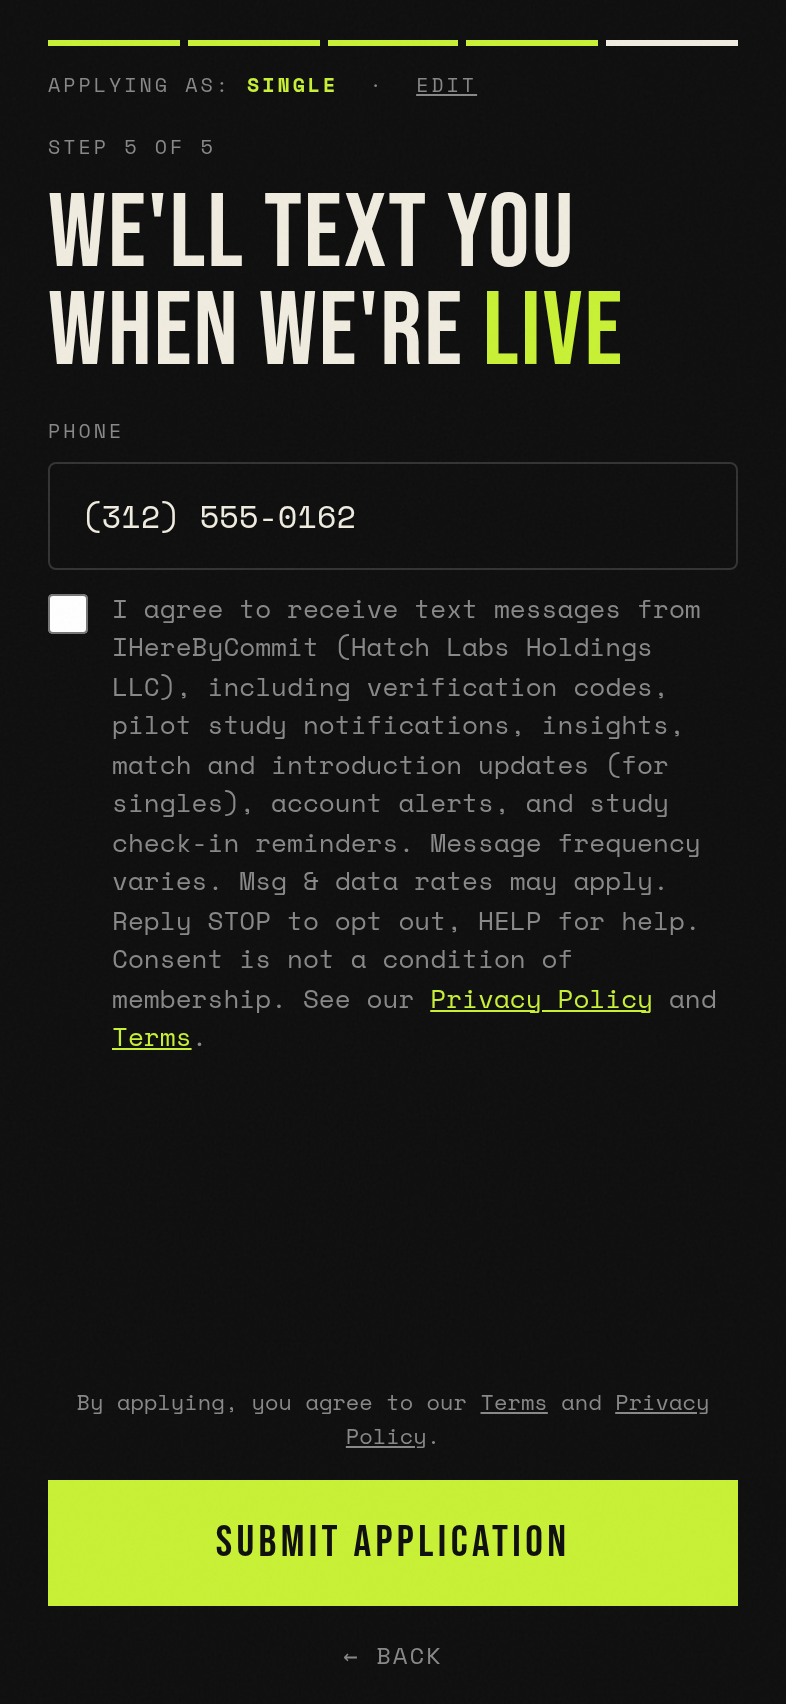
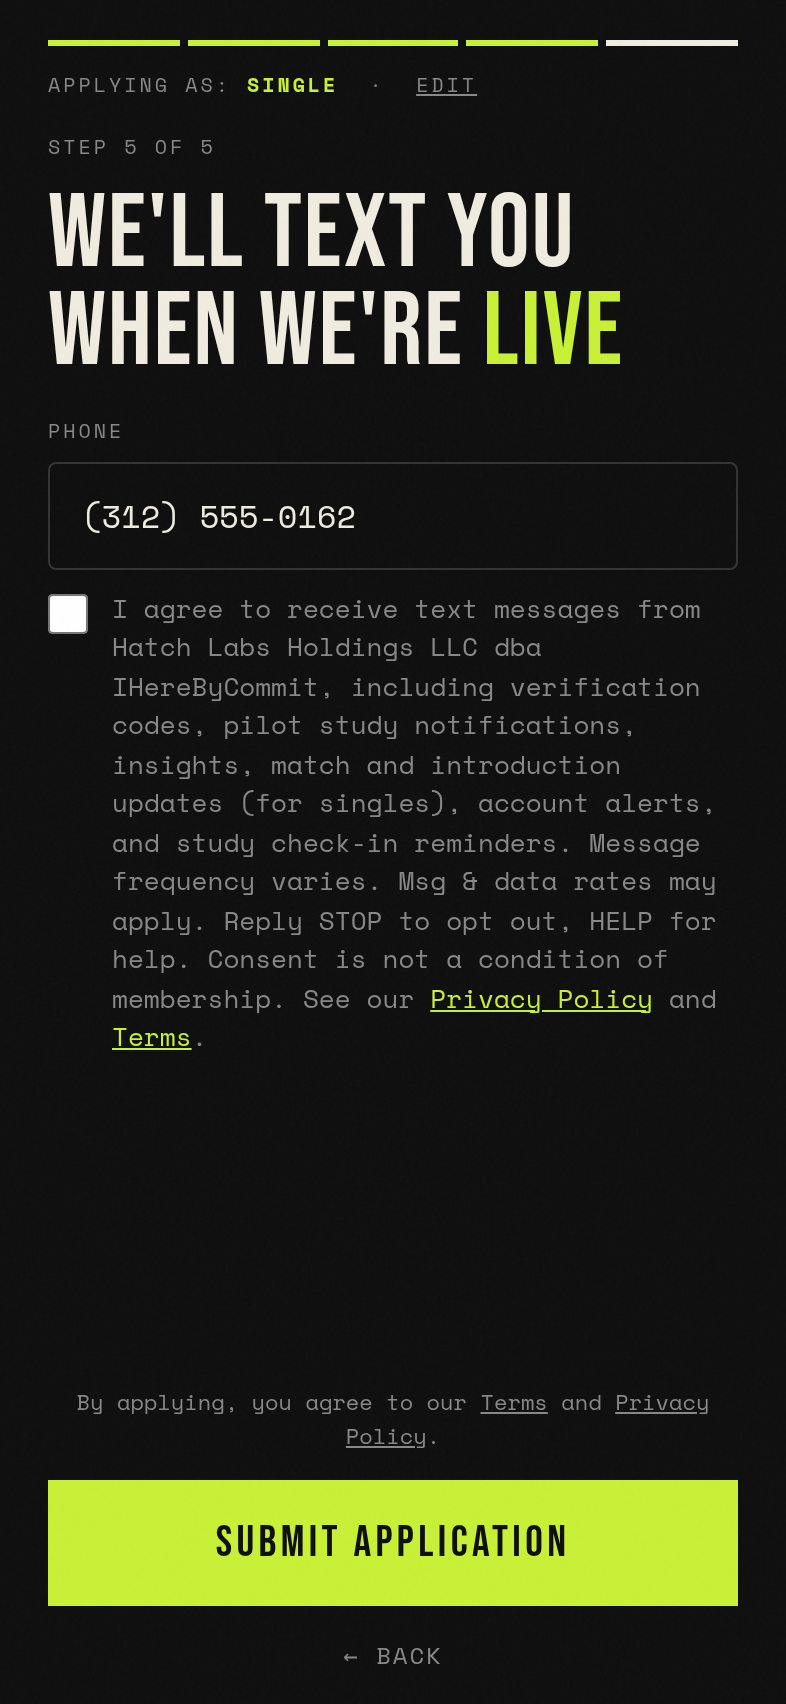
SMS: single-business naming 'Hatch Labs Holdings LLC dba IHereByCommit'; sms_optin@2026-10-09c; regenerate /sms-optin.png (PAGE_VERSION 2026-10-09p9-s3y48-sms-dba) _grokbot

Changed region(s): [[0.1527, 0.3732, 0.916, 0.591], [0.1832, 0.5599, 0.2748, 0.591]]

diff --git a/index.html b/index.html
@@ -2824,7 +2824,7 @@
       </div>
       <label class="checkbox-group" id="sms-consent-label" style="opacity:0.5;">
         <input type="checkbox" id="sms_consent" disabled>
-        <span class="checkbox-label">I agree to receive text messages from IHereByCommit (Hatch Labs Holdings LLC), including verification codes, pilot study notifications, insights, match and introduction updates (for singles), account alerts, and study check-in reminders. Message frequency varies. Msg &amp; data rates may apply. Reply STOP to opt out, HELP for help. Consent is not a condition of membership. See our <a href="privacy/" target="_blank" rel="noopener" style="color:var(--accent);text-decoration:underline;">Privacy Policy</a> and <a href="terms/" target="_blank" rel="noopener" style="color:var(--accent);text-decoration:underline;">Terms</a>.</span>
+        <span class="checkbox-label">I agree to receive text messages from Hatch Labs Holdings LLC dba IHereByCommit, including verification codes, pilot study notifications, insights, match and introduction updates (for singles), account alerts, and study check-in reminders. Message frequency varies. Msg &amp; data rates may apply. Reply STOP to opt out, HELP for help. Consent is not a condition of membership. See our <a href="privacy/" target="_blank" rel="noopener" style="color:var(--accent);text-decoration:underline;">Privacy Policy</a> and <a href="terms/" target="_blank" rel="noopener" style="color:var(--accent);text-decoration:underline;">Terms</a>.</span>
       </label>
     </div>
     <div class="bottom-action">
@@ -2983,7 +2983,7 @@ const FUNCTIONS_URL = SUPABASE_URL + '/functions/v1';
 // ONBOARDING TIMING (2026-09-27): screen-by-screen events, sent with save-lead.
 // No answer values are ever logged, only screen keys and (for validation_failed) field names.
 // ============================================================
-var PAGE_VERSION = '2026-10-09p8-s3y48-sms-insights'; // sms-insights: + insights, (for singles) (sms_optin@2026-10-09b). Prev 2026-10-09p7-s3y48-sms. // sms: Twilio A2P opt-in wording (consent_documents sms_optin@2026-10-09). Prev 2026-10-09p6-s3y48-kidscount. // kidscount: singles asked How many kids after Have kids = Yes (was couples-only). Prev 2026-10-07p5-s3y48. // prod s3y48 hotfix: Turnstile never blocks Submit (3 s max wait, then sent without a token flagged unavailable; widget rendered early; partial save in parallel; in-viewport transparent container; watchdog; payload errors release the button). s3y47: couples Notify-my-partner checkbox.
+var PAGE_VERSION = '2026-10-09p9-s3y48-sms-dba'; // sms-dba: single business naming 'Hatch Labs Holdings LLC dba IHereByCommit' (sms_optin@2026-10-09c). Prev 2026-10-09p8-s3y48-sms-insights. // sms-insights: + insights, (for singles) (sms_optin@2026-10-09b). Prev 2026-10-09p7-s3y48-sms. // sms: Twilio A2P opt-in wording (consent_documents sms_optin@2026-10-09). Prev 2026-10-09p6-s3y48-kidscount. // kidscount: singles asked How many kids after Have kids = Yes (was couples-only). Prev 2026-10-07p5-s3y48. // prod s3y48 hotfix: Turnstile never blocks Submit (3 s max wait, then sent without a token flagged unavailable; widget rendered early; partial save in parallel; in-viewport transparent container; watchdog; payload errors release the button). s3y47: couples Notify-my-partner checkbox.
 var timing = { startedAt:null, shownAt:null, currentKey:null, seq:0, events:[], flow:[] };
 
 function keyOf(el) { return el ? (el.getAttribute('data-screen-key') || el.id || null) : null; }
@@ -4360,7 +4360,7 @@ async function doSubmit(ts) {
       relationship_timeline: relationshipTimelinePayload(),
       phone: document.getElementById('phone').value.trim(),
       sms_consent: document.getElementById('sms_consent').checked,
-      sms_consent_version: document.getElementById('sms_consent').checked ? '2026-10-09b' : null, // = consent_documents sms_optin@2026-10-09b
+      sms_consent_version: document.getElementById('sms_consent').checked ? '2026-10-09c' : null, // = consent_documents sms_optin@2026-10-09c
       linkedin_url: 'https://www.linkedin.com/in/' + username,
       instagram: document.getElementById('instagram').value.trim() || null,
       x_handle: document.getElementById('x_handle').value.trim() || null,

diff --git a/privacy/index.html b/privacy/index.html
@@ -253,7 +253,7 @@
 
     <div class="doc-section" id="sms">
       <h2 class="doc-section-heading">Text messages</h2>
-      <p class="doc-p">If you opt in, IHereByCommit (Hatch Labs Holdings LLC) will send you text messages through our messaging provider, Twilio, including verification codes, pilot study notifications, insights, match and introduction updates (for singles), account alerts, and study check-in reminders. You opt in by ticking the box under the phone number on the application's last screen; it is never ticked for you. Message frequency varies. Message and data rates may apply. Consent to texts is not a condition of membership, applying, or joining the study. We will not send you marketing texts about other Hatch Labs products unless you separately agree to receive them.</p>
+      <p class="doc-p">If you opt in, Hatch Labs Holdings LLC dba IHereByCommit will send you text messages through our messaging provider, Twilio, including verification codes, pilot study notifications, insights, match and introduction updates (for singles), account alerts, and study check-in reminders. You opt in by ticking the box under the phone number on the application's last screen; it is never ticked for you. Message frequency varies. Message and data rates may apply. Consent to texts is not a condition of membership, applying, or joining the study. We will not send you marketing texts unless you separately agree to receive them.</p>
       <p class="doc-p"><strong>Your mobile number is not shared for marketing.</strong> No mobile information will be shared with third parties or affiliates for marketing or promotional purposes. Text-message opt-in data and consent are excluded from every category of sharing in this policy and will not be shared with any third parties, except the service providers (such as Twilio) that deliver our texts for us.</p>
       <p class="doc-p"><strong>How to stop texts.</strong> Reply STOP (or STOPALL, UNSUBSCRIBE, CANCEL, END, or QUIT) to any text and we'll confirm and send no more. Reply START to opt back in. Reply HELP for help, or email <a href="mailto:contact@hatchlabs.com" class="accent-link">contact@hatchlabs.com</a>. You can also email us to stop texts.</p>
 

diff --git a/terms/index.html b/terms/index.html
@@ -89,8 +89,8 @@
 
     <div class="doc-section" id="sms">
       <h2 class="doc-section-heading">3a. SMS program</h2>
-      <p class="doc-p"><strong>Program name:</strong> IHereByCommit (Hatch Labs Holdings LLC).</p>
-      <p class="doc-p">If you tick the text-message box on the application's last step (it is never ticked for you), you agree to receive text messages from IHereByCommit, including verification codes, pilot study notifications, insights, match and introduction updates (for singles), account alerts, and study check-in reminders.</p>
+      <p class="doc-p"><strong>Program name:</strong> Hatch Labs Holdings LLC dba IHereByCommit.</p>
+      <p class="doc-p">If you tick the text-message box on the application's last step (it is never ticked for you), you agree to receive text messages from Hatch Labs Holdings LLC dba IHereByCommit, including verification codes, pilot study notifications, insights, match and introduction updates (for singles), account alerts, and study check-in reminders.</p>
       <ul class="doc-list">
         <li>Message frequency varies.</li>
         <li>Msg &amp; data rates may apply.</li>
